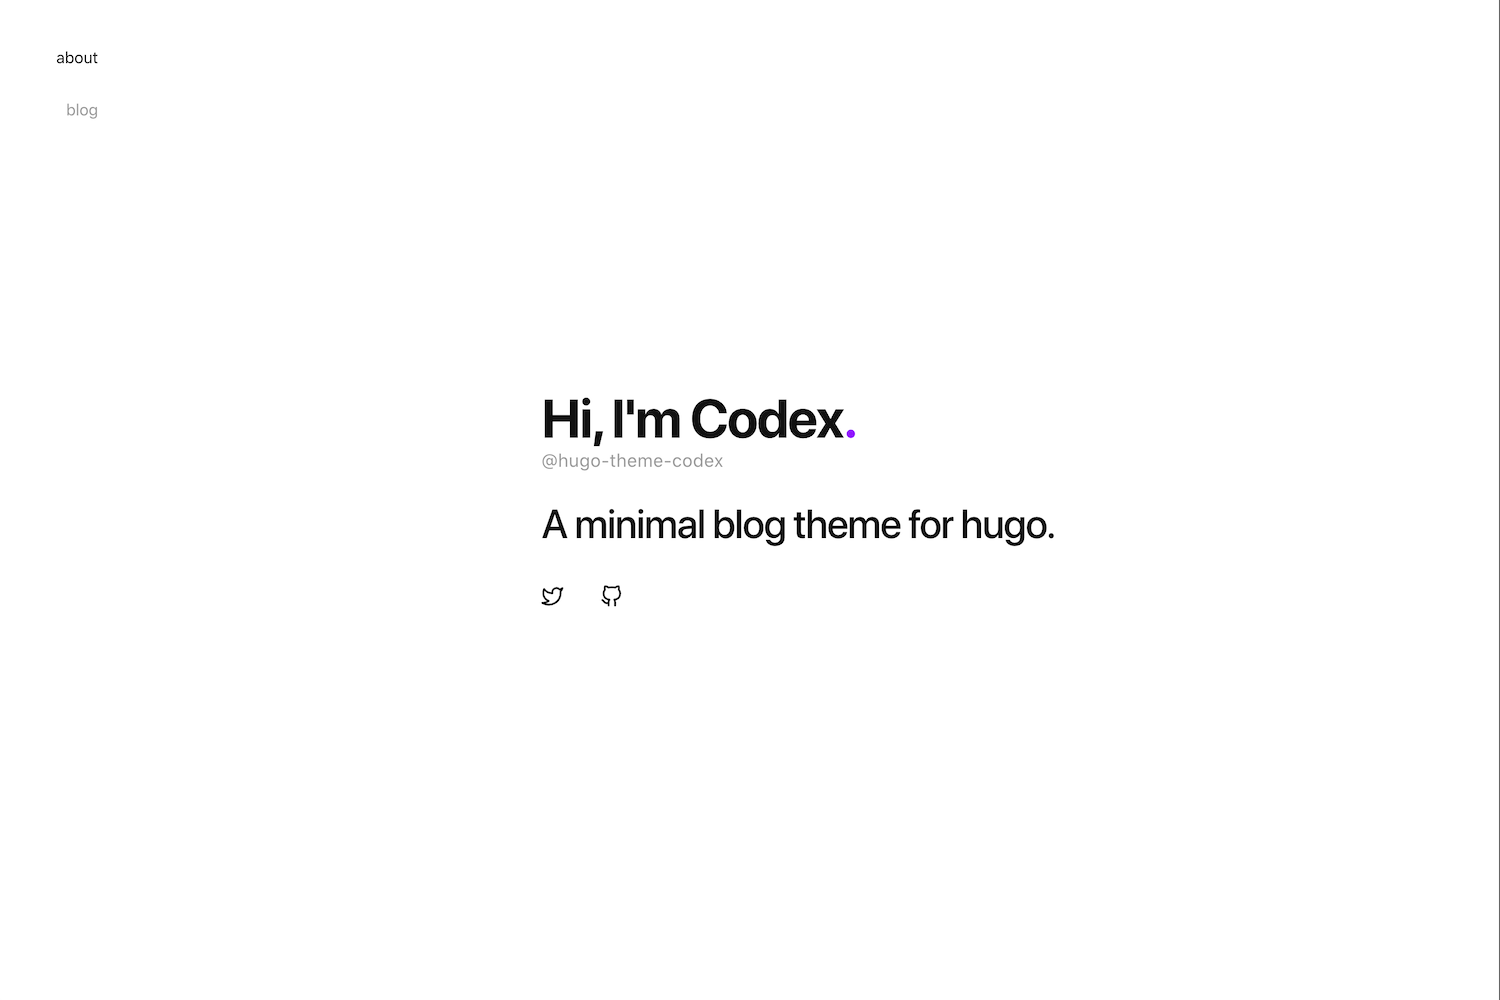
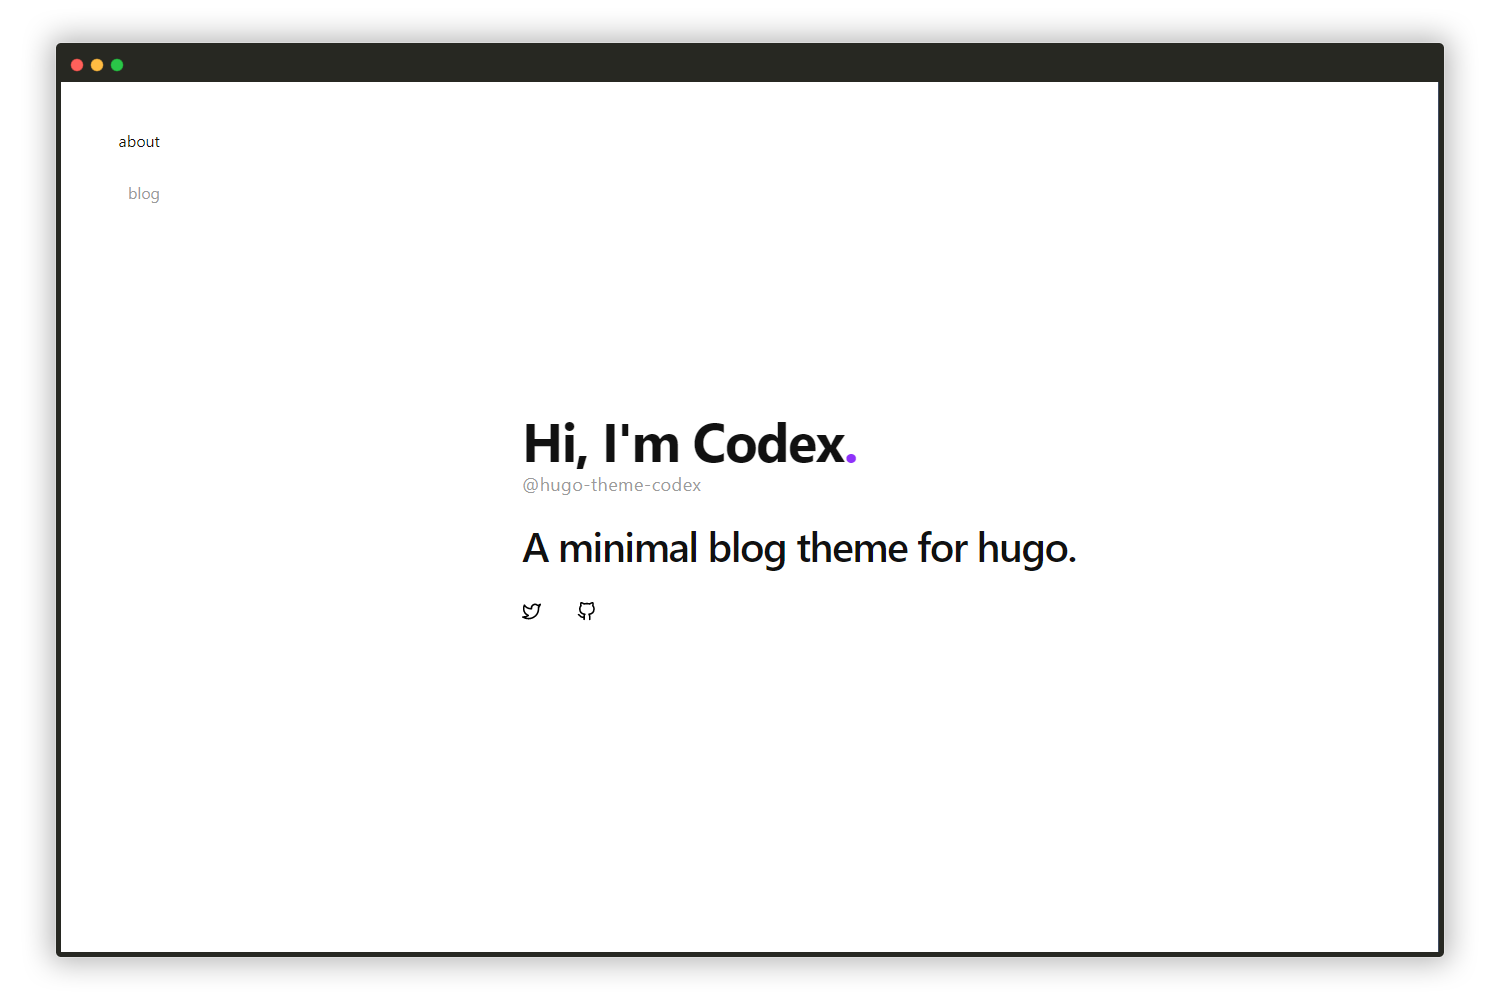
update screenshot and add to README

Changed region(s): [[0.0307, 0.031, 0.9813, 0.992], [0.3373, 0.403, 0.7053, 0.589], [0.3373, 0.589, 0.3987, 0.62]]

diff --git a/README.md b/README.md
@@ -2,6 +2,8 @@
 
 A minimal blog theme built for [Hugo](https://gohugo.io/) 🍜
 
+![Hugo desktop screenshot](/images/screenshot.png)
+
 - An about page 👋🏻 and a blog 📝
 - Blog posts can be tagged 🏷
 - Mathematical notations are supported with KaTex 📐
